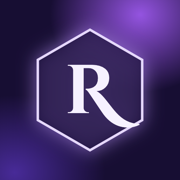
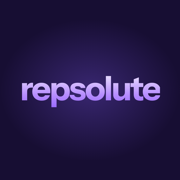
Rename to Repsolute and simplify setup
New wordmark icon. Setup explains goals, activity and plans in plain words,
adds a bulk goal, and shows targets locked until you tap Edit.

diff --git a/js/views.js b/js/views.js
@@ -489,18 +489,18 @@ function viewYou() {
 const guideStep = (n, title, text, img, alt) => `<li class="guide-step"><div class="guide-text"><span class="guide-n">${n}</span><div><h3>${title}</h3><p>${text}</p></div></div>${img ? `<img src="guide/${img}.jpg" alt="${alt}" loading="lazy">` : ''}</li>`;
 function guideSteps(os) {
   if (os === 'android') {
-    return `${ui.installEvent ? '<button class="btn solid guide-install" data-a="installNow">Install Rep Quest</button><p class="dim sm center">One tap. Or do it by hand:</p>' : ''}
+    return `${ui.installEvent ? '<button class="btn solid guide-install" data-a="installNow">Install Repsolute</button><p class="dim sm center">One tap. Or do it by hand:</p>' : ''}
       <ol class="guide-steps">
       ${guideStep(1, 'Open the Chrome menu', 'Tap the <b>⋮</b> menu at the top right, then tap <b>Install app</b> or <b>Add to Home screen</b>.', 'android-menu', 'Chrome menu on Android with Install app marked by an arrow')}
       ${guideStep(2, 'Tap Install', 'Confirm on the screen that pops up.', 'android-install', 'Install confirmation on Android with an Install button')}
-      ${guideStep(3, 'Open it from your home screen', 'Look for the Rep Quest icon. It opens full screen, and signing in with Google keeps your data with you everywhere.', 'android-home', 'New app icon on an Android home screen')}
+      ${guideStep(3, 'Open it from your home screen', 'Look for the Repsolute icon. It opens full screen, and signing in with Google keeps your data with you everywhere.', 'android-home', 'New app icon on an Android home screen')}
       </ol>`;
   }
   return `<ol class="guide-steps">
     ${guideStep(1, 'Tap the Share button', `In Safari, it's the ${i('share')} button at the bottom of the screen. On the newest iPhones, tap ${i('more')} first, then <b>Share</b>.`)}
     ${guideStep(2, 'Tap Add to Home Screen', 'Scroll down the list to find it. If it isn\'t there, tap <b>View More</b>.', 'ios-add', 'iPhone share menu with Add to Home Screen marked by an arrow')}
     ${guideStep(3, 'Tap Add', 'Leave <b>Open as Web App</b> switched on if you see it.', 'ios-confirm', 'Add to Home Screen confirmation on iPhone with Add at the top right')}
-    ${guideStep(4, 'Open it from your Home Screen', 'Look for the Rep Quest icon and open it. Sign in with Google there too, and your data follows you between the site and the app.', 'ios-home', 'New app icon on an iPhone Home Screen')}
+    ${guideStep(4, 'Open it from your Home Screen', 'Look for the Repsolute icon and open it. Sign in with Google there too, and your data follows you between the site and the app.', 'ios-home', 'New app icon on an iPhone Home Screen')}
     </ol>`;
 }
 const guideCredit = '<p class="guide-credit">These screens show a different app, and yours may look a little different. Screenshots by Mozilla Contributors, <a href="https://developer.mozilla.org/en-US/docs/Web/Progressive_web_apps/Guides/Installing" target="_blank" rel="noopener">MDN Web Docs</a>, <a href="https://creativecommons.org/licenses/by-sa/2.5/" target="_blank" rel="noopener">CC BY-SA 2.5</a>, cropped.</p>';
@@ -510,7 +510,7 @@ function viewInstallGuide() {
   if (!os) {
     return `<section class="welcome guide-ask">
       <h1>Make it an app</h1>
-      <p>Rep Quest lives on your Home Screen, opens full screen and works offline. It takes about 20 seconds, with nothing to download from a store.</p>
+      <p>Repsolute lives on your Home Screen, opens full screen and works offline. It takes about 20 seconds, with nothing to download from a store.</p>
       <h3 class="sh-sub">Which phone do you have?</h3>
       <div class="plan-cards">
         <button class="plan-card" data-a="guideOs" data-v="iphone"><b>iPhone</b><span>Using Safari</span></button>
@@ -529,35 +529,46 @@ function viewInstallGuide() {
 }
 
 /* ---------- First-time setup ---------- */
+const SETUP_STEPS = 5;
 const setupField = (label, k, attrs = '') => `<label>${label}<input data-f="setupField" data-k="${k}" id="s-${k}" value="${esc(ui.setup[k])}" ${attrs}></label>`;
+const setupCard = (k, v, on, title, plain, note = '', side = '') => `<button class="plan-card${on ? ' on' : ''}" data-a="setupPick" data-k="${k}" data-v="${v}"><b>${esc(title)}</b>${side ? `<em>${esc(side)}</em>` : ''}<span>${esc(plain)}</span>${note ? `<small>${esc(note)}</small>` : ''}</button>`;
+// The weekly pace for this person, in kg rather than percent.
+function goalPace(g, weight) {
+  if (g.lo < 0 && g.hi > 0) return 'Your weight stays about the same';
+  const [a, b] = [g.lo, g.hi].map(x => Math.abs(x) * weight / 100).sort((x, y) => x - y);
+  return `${g.hi < 0 ? 'Lose' : 'Gain'} about ${round(a, 1)} to ${round(b, 1)} kg a week`;
+}
 function setupStep(s) {
   if (s.step === 1) return `<h1>About you</h1><p>These set your starting calories, and you can change them any time.</p>
     <div class="form">${setupField('First name', 'name', 'autocomplete="given-name"')}
       <div class="two">${setupField('Weight, kg', 'weight', 'inputmode="decimal"')}${setupField('Height, cm', 'height', 'inputmode="numeric"')}</div>
       <div class="two">${setupField('Age', 'age', 'inputmode="numeric"')}<div class="field-label">Sex, for the formula<div class="seg">${[['male', 'Male'], ['female', 'Female']].map(([k, l]) => `<button class="${s.sex === k ? 'on' : ''}" data-a="setupPick" data-k="sex" data-v="${k}">${l}</button>`).join('')}</div></div></div></div>`;
-  if (s.step === 2) return `<h1>Your goal</h1><p>Set by how fast your weight should move, with no goal weight needed.</p>
-    <div class="choice col setup-choice">${Object.entries(GOALS).filter(([k]) => k !== 'custom').map(([k, g]) => `<button class="${s.goal === k ? 'on' : ''}" data-a="setupPick" data-k="goal" data-v="${k}"><b>${esc(g.label)}</b><span>${signed(g.lo, 2)} to ${signed(g.hi, 2)}% a week</span></button>`).join('')}</div>
-    <h3 class="sh-sub">How active are you?</h3>
-    <div class="choice col setup-choice">${ACTIVITY.map(a => `<button class="${s.activity === a.id ? 'on' : ''}" data-a="setupPick" data-k="activity" data-v="${a.id}"><b>${esc(a.label)}</b></button>`).join('')}</div>`;
-  if (s.step === 3) return `<h1>Pick a plan</h1><p>You can edit it, swap exercises or switch plans later.</p>
-    <div class="plan-cards">${PROGRAMS.map(p => `<button class="plan-card${s.plan === p.key ? ' on' : ''}" data-a="setupPick" data-k="plan" data-v="${p.key}"><b>${esc(p.name)}</b><em>${esc(p.source)}</em><span>${esc(p.says)}</span></button>`).join('')}</div>`;
-  return `<h1>Your targets</h1><p>Worked out from your details. The coach fine-tunes them from your real data after 10 weigh-ins and 4 workouts.</p>
-    <div class="form">${setupField('Calories', 'kcal', 'inputmode="numeric"')}
-      <div class="three">${setupField('Protein, g', 'protein', 'inputmode="numeric"')}${setupField('Carbs, g', 'carbs', 'inputmode="numeric"')}${setupField('Fat, g', 'fat', 'inputmode="numeric"')}</div></div>
+  if (s.step === 2) return `<h1>Your goal</h1><p>What do you want to do right now? You can change this any time.</p>
+    <div class="plan-cards">${Object.entries(GOALS).filter(([k]) => k !== 'custom').map(([k, g]) => setupCard('goal', k, s.goal === k, g.label, g.plain, goalPace(g, num(s.weight)))).join('')}</div>`;
+  if (s.step === 3) return `<h1>How active are you?</h1><p>This helps work out how many calories you burn. Think about a normal week, including your job and workouts. If you're between two, pick the lower one.</p>
+    <div class="plan-cards">${ACTIVITY.map(a => setupCard('activity', a.id, s.activity === a.id, a.label, a.plain)).join('')}</div>`;
+  if (s.step === 4) return `<h1>Pick a plan</h1><p>Choose by how many days you can train. You can swap exercises or change plan any time.</p>
+    <div class="plan-cards">${PROGRAMS.map(p => setupCard('plan', p.key, s.plan === p.key, p.name, p.plain, `Best for: ${p.best}`, p.source)).join('')}</div>`;
+  const lock = s.editing ? '' : 'readonly tabindex="-1"';
+  return `<h1>Your targets</h1><p>You burn about ${fmt(s.burn)} calories a day, so we suggest ${fmt(s.suggested)} ${esc(GOALS[s.goal].aim)}. The coach fine-tunes this from your real results after ${UNLOCK_WEIGH_INS} weigh-ins and ${UNLOCK_WORKOUTS} workouts.</p>
+    <div class="targets-head"><h3 class="sh-sub">Your daily targets</h3><button class="link strong" data-a="setupEdit">${s.editing ? 'Done' : 'Edit'}</button></div>
+    <div class="form${s.editing ? '' : ' locked'}">${setupField('Calories', 'kcal', `inputmode="numeric" ${lock}`)}
+      <div class="three">${setupField('Protein, g', 'protein', `inputmode="numeric" ${lock}`)}${setupField('Carbs, g', 'carbs', `inputmode="numeric" ${lock}`)}${setupField('Fat, g', 'fat', `inputmode="numeric" ${lock}`)}</div></div>
+    <p class="sm dim">Protein builds muscle. Carbs fuel your workouts. Fat supports your hormones.</p>
     <h3 class="sh-sub">Choose a look</h3>
     <div class="themes">${THEMES.map(t => `<button class="theme-card${state.settings.theme === t.id ? ' on' : ''}" data-a="setTheme" data-v="${t.id}"><span class="tc tc-${t.id}"><i></i><i></i><i></i></span><b>${t.name}</b></button>`).join('')}</div>`;
 }
 function viewWelcome() {
   const me = Cloud.user();
   if (me && !Cloud.pulled()) {
-    return `<section class="welcome"><h1>Rep Quest</h1><p>Loading your account...</p><button class="link strong" data-a="cloudRetry">Try again</button></section>`;
+    return `<section class="welcome"><h1>Repsolute</h1><p>Loading your account...</p><button class="link strong" data-a="cloudRetry">Try again</button></section>`;
   }
   const s = ui.setup;
   if (!me && s.step < 1 && !isInstalled() && !guideSeen()) return viewInstallGuide();
   if (me && s.step < 1) { s.step = 1; s.name = s.name || (me.name || '').split(' ')[0]; }
   if (s.step < 1) {
     return `<section class="welcome">
-      <h1>Rep Quest</h1>
+      <h1>Repsolute</h1>
       <p>Clear your quests every day: train, hit protein and calories, weigh in. Your numbers steer the plan.</p>
       ${Cloud.enabled() ? `<button class="btn google" data-a="cloudSignIn">${GOOGLE_G} Continue with Google</button>` : ''}
       <button class="btn line" data-a="setupGo" data-n="1">Start without an account</button>
@@ -565,9 +576,10 @@ function viewWelcome() {
       <input type="file" id="restore-file" accept="application/json,.json" hidden>
     </section>`;
   }
+  if (s.calculating) return `<section class="setup-calc" role="status"><div class="calc-ring"></div><h1>Calculating your caloric goals</h1><p>Using your details, goal and activity</p></section>`;
   return `<section class="setup">
-    <div class="setup-steps" aria-label="Step ${s.step} of 4">${[1, 2, 3, 4].map(n => `<i class="${n <= s.step ? 'on' : ''}"></i>`).join('')}</div>
+    <div class="setup-steps" aria-label="Step ${s.step} of ${SETUP_STEPS}">${Array.from({ length: SETUP_STEPS }, (_, i) => i + 1).map(n => `<i class="${n <= s.step ? 'on' : ''}"></i>`).join('')}</div>
     ${setupStep(s)}
-    <div class="setup-foot">${s.step > (me ? 1 : 0) ? '<button class="btn line" data-a="setupBack">Back</button>' : ''}<button class="btn solid" data-a="setupNext">${s.step === 4 ? 'Start' : 'Next'}</button></div>
+    <div class="setup-foot">${s.step > (me ? 1 : 0) ? '<button class="btn line" data-a="setupBack">Back</button>' : ''}<button class="btn solid" data-a="setupNext">${s.step === SETUP_STEPS ? 'Start' : 'Next'}</button></div>
   </section>`;
 }

diff --git a/js/library.js b/js/library.js
@@ -253,7 +253,7 @@ const D = (name, rows) => ({ id: uid(), name, exercises: rows.map(r => planRow(.
 // Pre-built programs. New people pick one during setup, and anyone can switch later.
 const PROGRAMS = [
   {
-    key: 'final', name: "Founder's plan", source: '5 days a week', says: 'Upper, lower, push, pull, then legs and arms. Extra attention on shoulders and upper chest.',
+    key: 'final', name: "Founder's plan", source: '5 days a week', plain: 'The plan our founder follows. Upper body, lower body, chest and shoulders, back and biceps, then legs and arms.', best: 'People who can train 5 days a week and want bigger shoulders and upper chest.', says: 'Upper, lower, push, pull, then legs and arms. Extra attention on shoulders and upper chest.',
     make() {
       const mon = D('Upper body', [['Machine chest press', 3, 6, 10], ['Lat pulldown', 3, 8, 12], ['Chest-supported row', 3, 8, 12], ['Incline dumbbell press', 2, 8, 12], ['Cable lateral raises', 3, 12, 20], ['EZ-bar biceps curls', 2, 10, 12], ['Rope triceps pushdown', 2, 10, 15]]);
       const tue = D('Lower body', [['Leg press', 3, 8, 12], ['Seated leg curl', 3, 10, 15], ['Leg extension', 3, 10, 15], ['Bulgarian split squat', 2, 8, 12], ['Standing calf raises', 3, 12, 15], ['Cable crunches', 3, 12, 15]]);
@@ -264,7 +264,7 @@ const PROGRAMS = [
     },
   },
   {
-    key: 'ul4', name: 'Upper / lower, 4 days', source: '4 days a week', says: 'Four good sessions beat five rushed ones. A good fit when recovery or time is short.',
+    key: 'ul4', name: 'Upper / lower, 4 days', source: '4 days a week', plain: 'Two upper-body days and two lower-body days each week, with time to recover in between.', best: 'Most people. A good balance of training and rest.', says: 'Four good sessions beat five rushed ones. A good fit when recovery or time is short.',
     make() {
       const a = D('Upper 1', [['Machine chest press', 3, 6, 10], ['Lat pulldown', 3, 8, 12], ['Chest-supported row', 3, 8, 12], ['Machine shoulder press', 2, 8, 12], ['Cable lateral raises', 4, 12, 20], ['EZ-bar biceps curls', 2, 10, 12], ['Rope triceps pushdown', 2, 10, 15]]);
       const b = D('Lower 1', [['Leg press', 3, 8, 12], ['Seated leg curl', 3, 10, 15], ['Leg extension', 2, 10, 15], ['Standing calf raises', 3, 12, 15], ['Cable crunches', 3, 12, 15]]);
@@ -274,7 +274,7 @@ const PROGRAMS = [
     },
   },
   {
-    key: 'ppl6', name: 'Push, pull, legs, 6 days', source: '6 days a week', says: 'Each muscle twice a week with more total sets. Only worth it if sleep and recovery are solid.',
+    key: 'ppl6', name: 'Push, pull, legs, 6 days', source: '6 days a week', plain: 'Push days train chest, shoulders and triceps. Pull days train back and biceps. Then legs. You do all three twice a week.', best: 'Experienced lifters who sleep well and have time to recover.', says: 'Each muscle twice a week with more total sets. Only worth it if sleep and recovery are solid.',
     make() {
       const push = n => D(`Push ${n}`, [[n === 1 ? 'Incline machine chest press' : 'Flat machine chest press', 3, 8, 12], [n === 1 ? 'Machine chest press' : 'Incline dumbbell press', 3, 8, 12], ['Machine shoulder press', 2, 8, 12], ['Cable lateral raises', 4, 12, 20], ['Rope pushdown', 3, 10, 15]]);
       const pull = n => D(`Pull ${n}`, [[n === 1 ? 'Lat pulldown' : 'Neutral-grip lat pulldown', 3, 8, 12], [n === 1 ? 'Chest-supported row' : 'Seated cable row', 3, 8, 12], ['Single-arm cable row', 2, 10, 12], ['Reverse pec deck', 3, 12, 20], ['Preacher curls', 3, 10, 12]]);
@@ -284,7 +284,7 @@ const PROGRAMS = [
     },
   },
   {
-    key: 'fb3', name: 'Full body, 3 days', source: '3 days a week', says: 'For busy weeks or travel. Every muscle three times a week in fewer sessions.',
+    key: 'fb3', name: 'Full body, 3 days', source: '3 days a week', plain: 'Every session trains your whole body, so you need the fewest days in the gym.', best: 'Beginners, busy weeks and travel.', says: 'For busy weeks or travel. Every muscle three times a week in fewer sessions.',
     make() {
       const a = D('Full body A', [['Machine chest press', 3, 8, 12], ['Lat pulldown', 3, 8, 12], ['Leg press', 3, 8, 12], ['Cable lateral raises', 3, 12, 20], ['Seated leg curl', 2, 10, 15], ['Rope pushdown', 2, 10, 15]]);
       const b = D('Full body B', [['Incline dumbbell press', 3, 8, 12], ['Chest-supported row', 3, 8, 12], ['Hack squat', 3, 8, 12], ['Reverse pec deck', 3, 12, 20], ['Dumbbell curls', 2, 10, 15], ['Cable crunches', 3, 12, 15]]);

diff --git a/js/app.js b/js/app.js
@@ -53,7 +53,7 @@ function render() {
   ui.enter = false;
   app.classList.remove('enter'); // a re-render mid-entrance must not replay it
   const html = onWelcome ? viewWelcome() : VIEWS[ui.tab]();
-  const screen = onWelcome ? `setup-${ui.setup.step}-${guideSeen()}-${ui.guideOs}` : `${ui.tab}-${!!state.active}`;
+  const screen = onWelcome ? `setup-${ui.setup.step}-${!!ui.setup.calculating}-${guideSeen()}-${ui.guideOs}` : `${ui.tab}-${!!state.active}`;
   // Same screen: change only what changed. New screen: draw it fresh.
   if (!entering && ui.screen === screen && app.firstChild) Motion.morph(app, html);
   else app.innerHTML = html;
@@ -340,7 +340,7 @@ async function importFile(file) {
     ui.sheet = null; ui.sheetStack = [];
     toast('Backup restored');
     commit();
-  } catch (e) { toast('That file is not a Rep Quest backup'); }
+  } catch (e) { toast('That file is not a Repsolute backup'); }
 }
 
 /* ---------- Actions ---------- */
@@ -388,12 +388,18 @@ const A = {
     prompt.prompt();
     const { outcome } = await prompt.userChoice;
     ui.installEvent = null;
-    if (outcome === 'accepted') toast('Installed. Open Rep Quest from your home screen.');
+    if (outcome === 'accepted') toast('Installed. Open Repsolute from your home screen.');
     render();
   },
   setupGo(d) { ui.setup.step = Number(d.n); ui.enter = true; haptic(); render(); window.scrollTo(0, 0); },
   setupBack() { A.setupGo({ n: ui.setup.step - 1 }); },
   setupPick(d) { ui.setup[d.k] = d.v; haptic(); render(); },
+  setupEdit() {
+    ui.setup.editing = !ui.setup.editing;
+    if (!ui.setup.editing) document.activeElement?.blur(); // updates skip the box in focus, so let go of it first
+    haptic(); render();
+    if (ui.setup.editing) document.getElementById('s-kcal')?.focus();
+  },
   setupNext() {
     const s = ui.setup, weight = num(s.weight), height = num(s.height), age = num(s.age);
     if (s.step === 1) {
@@ -402,11 +408,16 @@ const A = {
       if (age == null || age < 10 || age > 110) { toast('Enter your age'); return; }
       if (!s.sex) { toast('Choose one so the formula can work'); return; }
     }
-    if (s.step === 3) {
-      const t = suggestTargets({ heightCm: height, age, sex: s.sex, activity: s.activity }, weight, GOALS[s.goal]);
-      Object.assign(s, t);
+    if (s.calculating) return;
+    if (s.step === SETUP_STEPS - 1) {
+      const profile = { heightCm: height, age, sex: s.sex, activity: s.activity };
+      const t = suggestTargets(profile, weight, GOALS[s.goal]);
+      Object.assign(s, t, { burn: Math.round(formulaTDEE(profile, weight) / 50) * 50, suggested: t.kcal, editing: false, calculating: true });
+      ui.enter = true; haptic(); render(); window.scrollTo(0, 0);
+      setTimeout(() => { if (ui.setup !== s) return; s.calculating = false; A.setupGo({ n: SETUP_STEPS }); }, CALC_MS);
+      return;
     }
-    if (s.step < 4) { A.setupGo({ n: s.step + 1 }); return; }
+    if (s.step < SETUP_STEPS) { A.setupGo({ n: s.step + 1 }); return; }
     const kcal = num(s.kcal), protein = num(s.protein), carbs = num(s.carbs), fat = num(s.fat);
     if ([kcal, protein, carbs, fat].some(x => x == null || x < 0)) { toast('Fill in every target'); return; }
     const start = today();

diff --git a/js/science.js b/js/science.js
@@ -34,15 +34,16 @@ const CONFIDENCE_Z = 1.28;         // act when about 90% sure the rate is outsid
 const MAX_STEP = 200, MIN_STEP = 75; // the plan's rule: adjust by 150 to 200 kcal at a time
 
 const GOALS = {
-  recomp: { label: 'Recomp', lo: -0.25, hi: 0.1, says: 'Build muscle while your weight stays about the same or falls slowly. No study pins an exact rate, so this band is a working choice you can edit.', refs: [] },
-  gain: { label: 'Lean gain', lo: 0.25, hi: 0.5, says: 'Gain slowly to keep fat low.', refs: ['iraki19'] },
-  cut: { label: 'Cut', lo: -1, hi: -0.5, says: 'Lose fat while keeping muscle.', refs: ['helms14', 'murphy22'] },
+  cut: { label: 'Lose weight', aim: 'to lose weight', plain: 'Eat less than you burn, so your body uses stored fat. Also called a cut.', lo: -1, hi: -0.5, says: 'Lose fat while keeping muscle.', refs: ['helms14', 'murphy22'] },
+  bulk: { label: 'Bulk', aim: 'for a bulk', plain: 'Eat well above what you burn to build muscle faster. You will gain some fat too.', lo: 0.5, hi: 1, says: 'Gain faster to build muscle, accepting more fat. No study pins an exact rate, so this band is a working choice you can edit.', refs: [] },
+  gain: { label: 'Lean gain', aim: 'for a lean gain', plain: 'Eat slightly more than you burn. Muscle comes slower than a bulk, with less fat.', lo: 0.25, hi: 0.5, says: 'Gain slowly to keep fat low.', refs: ['iraki19'] },
+  recomp: { label: 'Recomp', aim: 'for a recomp', plain: 'Short for body recomposition. Eat about what you burn to build muscle and lose fat at the same time.', lo: -0.25, hi: 0.1, says: 'Build muscle while your weight stays about the same or falls slowly. No study pins an exact rate, so this band is a working choice you can edit.', refs: [] },
   custom: { label: 'Custom', lo: -0.1, hi: 0.1, says: 'Pick your own weekly range.', refs: [] },
 };
 const ACTIVITY = [
-  { id: 'light', pal: 1.4, label: 'Mostly sitting, little exercise' },
-  { id: 'moderate', pal: 1.6, label: 'Desk day, lifting 3 to 5 times' },
-  { id: 'high', pal: 1.85, label: 'Active job or daily hard training' },
+  { id: 'light', pal: 1.4, label: 'Not very active', brief: 'Mostly sitting, little exercise', plain: 'You sit for most of the day, like at a desk or in class, and rarely work out.' },
+  { id: 'moderate', pal: 1.6, label: 'Fairly active', brief: 'Desk day, lifting 3 to 5 times', plain: 'You sit for most of the day, but work out 3 to 5 times a week.' },
+  { id: 'high', pal: 1.85, label: 'Very active', brief: 'Active job or daily hard training', plain: 'You are on your feet at work, like a waiter or labourer, or you train hard nearly every day.' },
 ];
 
 /* ---------- Body weight ---------- */

diff --git a/js/sheets.js b/js/sheets.js
@@ -231,13 +231,13 @@ const SHEETS = {
   /* ---------- Settings ---------- */
   profile(s) {
     const p = state.profile, w = latestWeight();
-    const intro = state.justUpgraded ? `<p>Rep Quest has a new look, a bigger food database and a smarter coach. All your data came across. Check these details so the coach can start from a sensible estimate.</p>` : '';
+    const intro = state.justUpgraded ? `<p>Repsolute has a new look, a bigger food database and a smarter coach. All your data came across. Check these details so the coach can start from a sensible estimate.</p>` : '';
     const b = bmr({ ...p, sex: p.sex }, w);
     return `${sheetHead(state.justUpgraded ? 'Welcome back' : 'Your details')}${intro}
       <div class="form">
         <div class="two">${field('Height, cm', 'p-height', p.heightCm ?? (state.justUpgraded ? 183 : ''), 'inputmode="numeric"')}${field('Age', 'p-age', p.age ?? (state.justUpgraded ? 20 : ''), 'inputmode="numeric"')}</div>
         <label>Sex, for the formula<select id="p-sex"><option value="">Choose</option><option value="male" ${p.sex === 'male' ? 'selected' : ''}>Male</option><option value="female" ${p.sex === 'female' ? 'selected' : ''}>Female</option></select></label>
-        <label>Typical activity<select id="p-activity">${ACTIVITY.map(a => `<option value="${a.id}" ${p.activity === a.id ? 'selected' : ''}>${esc(a.label)}</option>`).join('')}</select></label>
+        <label>Typical activity<select id="p-activity">${ACTIVITY.map(a => `<option value="${a.id}" ${p.activity === a.id ? 'selected' : ''}>${esc(a.brief)}</option>`).join('')}</select></label>
         ${field('First name', 'p-name', p.name)}
         ${b ? `<p class="sm dim">Resting burn by the Mifflin-St Jeor formula: about ${fmt(b)} kcal a day. ${refLinks(['mifflin90'])}</p>` : ''}
         <button class="btn solid wide" data-a="saveProfile">Save</button></div>`;
@@ -280,7 +280,7 @@ const SHEETS = {
       <h3 class="sh-sub">Choices made in this app</h3>
       <ul class="plain-list sm">
         <li>${fmt(KCAL_PER_KG)} kcal per kg of weight change. The classic 7,700 assumes pure fat, while measured values run lower.</li>
-        <li>The recomp range is a working choice, not from a study, since none pins an exact rate.</li>
+        <li>The recomp and bulk ranges are working choices, not from a study, since none pins an exact rate.</li>
         <li>Reliability numbers (formula within about ${PRIOR_SD} kcal, food logs within 120 to 350) are reasoned estimates.</li>
         <li>Estimated one-rep max uses the Epley formula, widely used but less accurate at high reps.</li></ul>
       <h3 class="sh-sub">Research used</h3>

diff --git a/styles.css b/styles.css
@@ -546,10 +546,10 @@ html[data-theme=arcade] .splash-q { font-size: 23px; line-height: 1.5; }
 /* ---------- First-time setup ---------- */
 .setup { display: flex; flex-direction: column; gap: 10px; min-height: 86dvh; }
 .setup > p { color: var(--dim); }
-.setup-steps { display: grid; grid-template-columns: repeat(4, 1fr); gap: 6px; margin-bottom: 14px; }
+.setup-steps { display: grid; grid-template-columns: repeat(5, 1fr); gap: 6px; margin-bottom: 14px; }
 .setup-steps i { height: 4px; background: var(--track); transition: background-color .3s ease; }
 .setup-steps i.on { background: var(--accent); }
-.setup-foot { position: sticky; bottom: calc(env(safe-area-inset-bottom) + 12px); display: flex; gap: 10px; margin-top: auto; padding-top: 16px; }
+.setup-foot { position: sticky; z-index: 5; bottom: calc(env(safe-area-inset-bottom) + 12px); display: flex; gap: 10px; margin-top: auto; padding-top: 16px; }
 .setup-foot .btn { flex: 1; }
 .setup-foot .btn.solid { flex: 2; }
 .field-label { font-size: 13px; color: var(--dim); }
@@ -563,6 +563,14 @@ html[data-theme=arcade] .splash-q { font-size: 23px; line-height: 1.5; }
 .plan-card b { font-weight: 600; font-size: 16px; }
 .plan-card em { float: right; font-style: normal; color: var(--dim); font-size: 13px; }
 .plan-card span { display: block; margin-top: 3px; color: var(--dim); font-size: 13.5px; }
+.plan-card small { display: block; margin-top: 6px; color: var(--accent-hi); font-size: 12.5px; }
+.targets-head { display: flex; justify-content: space-between; align-items: baseline; gap: 12px; }
+.targets-head .link { padding: 4px 0 4px 12px; font-size: 14px; }
+.form.locked input { color: var(--dim); background: transparent; border-style: dashed; pointer-events: none; }
+.setup-calc { display: flex; flex-direction: column; align-items: center; justify-content: center; gap: 14px; min-height: 78dvh; text-align: center; }
+.setup-calc p { color: var(--dim); }
+.calc-ring { width: 56px; height: 56px; border: 3px solid var(--track); border-top-color: var(--accent); border-radius: 50%; animation: calc-spin .9s linear infinite; }
+@keyframes calc-spin { to { transform: rotate(360deg); } }
 .welcome .btn { width: 100%; }
 
 /* ---------- Motion ---------- */

diff --git a/js/core.js b/js/core.js
@@ -57,7 +57,7 @@ function scheduleSave() { clearTimeout(saveTimer); saveTimer = setTimeout(writeS
 function flushSave() { if (saveTimer) { clearTimeout(saveTimer); saveTimer = null; writeSave(); } }
 
 /* ---------- State ---------- */
-const APP_VERSION = 8; // matches CACHE in sw.js
+const APP_VERSION = 9; // matches CACHE in sw.js
 const THEMES = [
   { id: 'game', name: 'Quest', bar: '#170e33', fx: ['#b78eff', '#dfceff', '#ffffff', '#7f5cff'], shapes: ['star', 'circle'], burst: 1 },
   { id: 'light', name: 'Minimal', bar: '#f7f7f4', fx: ['#17171a', '#8a8a8e', '#c9c9c5'], shapes: ['circle'], burst: 0.6 },
@@ -152,6 +152,7 @@ function migrate(saved) {
 
 const isInstalled = () => matchMedia('(display-mode: standalone)').matches || navigator.standalone === true;
 const guideSeen = () => { try { return localStorage.getItem('rq-guide-seen') === '1'; } catch (e) { return true; } };
+const CALC_MS = 1800; // the short "calculating" pause before someone's targets appear
 const freshSetup = () => ({ step: 0, name: '', weight: '', height: '', age: '', sex: '', goal: 'recomp', activity: 'moderate', plan: 'final', kcal: '', protein: '', carbs: '', fat: '' });
 let state = defaultState();
 const ui = {

diff --git a/sw.js b/sw.js
@@ -2,7 +2,7 @@
 // The app itself: each release is one complete saved copy, so old and new files never mix.
 // CHANGE THIS NAME ON EVERY RELEASE, and APP_VERSION in js/core.js with it: a phone only updates when this file changes.
 // The food files are large and only change with a rebuild, so they're fetched once and kept.
-const CACHE = 'rep-quest-v8';
+const CACHE = 'rep-quest-v9';
 const DATA_CACHE = 'rep-quest-data-v1';
 const SHELL = ['./', 'index.html', 'styles.css', 'js/canvas-confetti.js', 'js/motion-lib.js', 'js/morphdom.js', 'js/cloud.js', 'js/motion.js', 'js/quotes.js', 'js/util.js', 'js/science.js', 'js/library.js', 'js/core.js', 'js/foods.js', 'js/charts.js', 'js/views.js', 'js/sheets.js', 'js/app.js', 'food-worker.js', 'manifest.webmanifest', 'fonts/cinzel.woff2', 'fonts/cinzel-deco-700.woff2', 'fonts/silkscreen-700.woff2', 'fonts/instrument-sans.woff2', 'icons/icon-180.png', 'icons/icon-192.png', 'icons/icon-512.png', 'guide/ios-add.jpg', 'guide/ios-confirm.jpg', 'guide/ios-home.jpg', 'guide/android-menu.jpg', 'guide/android-install.jpg', 'guide/android-home.jpg'];
 

diff --git a/tools/icon.html b/tools/icon.html
@@ -1,0 +1,22 @@
+<!doctype html>
+<!-- App icon source. Render at 1024x1024 in headless Chrome, then scale to icons/icon-{512,192,180}.png. -->
+<meta charset="utf-8">
+<style>
+  @font-face { font-family: 'Instrument Sans'; src: url(../fonts/instrument-sans.woff2) format('woff2'); font-weight: 400 700; }
+  html, body { margin: 0; width: 1024px; height: 1024px; overflow: hidden; }
+  body {
+    display: grid; place-items: center;
+    background:
+      radial-gradient(70% 55% at 50% 50%, rgba(122, 86, 232, .34), transparent 72%),
+      #170e33;
+  }
+  b {
+    font: 700 192px/1 'Instrument Sans', sans-serif;
+    letter-spacing: -.045em;
+    padding-bottom: .1em;
+    background: linear-gradient(180deg, #e6d9ff 12%, #b78eff 62%, #9a6bff 96%);
+    -webkit-background-clip: text; background-clip: text;
+    color: transparent;
+  }
+</style>
+<b>repsolute</b>

diff --git a/index.html b/index.html
@@ -3,13 +3,13 @@
 <head>
 <meta charset="utf-8">
 <meta name="viewport" content="width=device-width, initial-scale=1, viewport-fit=cover">
-<title>Rep Quest</title>
+<title>Repsolute</title>
 <meta name="description" content="Workout, weight and calorie tracker. Clear your quests every day.">
 <meta name="theme-color" content="#170e33">
 <meta name="mobile-web-app-capable" content="yes">
 <meta name="apple-mobile-web-app-capable" content="yes">
 <meta name="apple-mobile-web-app-status-bar-style" content="black-translucent">
-<meta name="apple-mobile-web-app-title" content="Rep Quest">
+<meta name="apple-mobile-web-app-title" content="Repsolute">
 <link rel="manifest" href="manifest.webmanifest">
 <link rel="apple-touch-icon" href="icons/icon-180.png">
 <link rel="icon" href="icons/icon-192.png">

diff --git a/SETUP-LOGIN.md b/SETUP-LOGIN.md
@@ -1,6 +1,6 @@
 # Setting up Google login
 
-Rep Quest uses Firebase's free plan for sign-in and storage. The live project is already set up, and these steps are for rebuilding it. If `FIREBASE` in `js/cloud.js` is empty, the app works on the device only and hides the Google button.
+Repsolute uses Firebase's free plan for sign-in and storage. The live project is already set up, and these steps are for rebuilding it. If `FIREBASE` in `js/cloud.js` is empty, the app works on the device only and hides the Google button.
 
 1. Create a project at https://console.firebase.google.com (no billing needed).
 2. Build > Authentication > Get started > Google > Enable, then save.

diff --git a/README.md b/README.md
@@ -1,4 +1,4 @@
-# Rep Quest
+# Repsolute
 
 My workout, weight and calorie tracker. Each day has four quests: train, hit protein, hit calories and weigh in. Clearing them earns XP.
 
